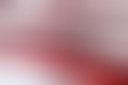
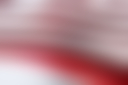
blur amount

diff --git a/scripts/blur.js b/scripts/blur.js
@@ -12,7 +12,7 @@ const process = async function(i) {
 		console.log('Blurring:', folder + file)
 		const image = await Jimp.read(folder + file).catch((err) => { return console.log(err) })
 		image.resize(128, Jimp.AUTO)
-		image.blur(16)
+		image.blur(10)
 		
 		const prefix = file.split('.lazy.')[0]
 		const suffix = file.split('.lazy.')[1]
